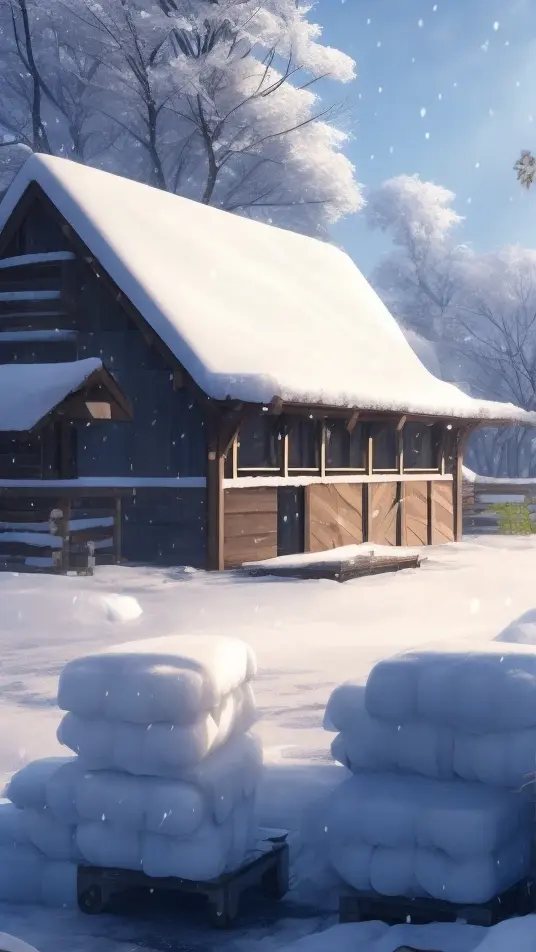
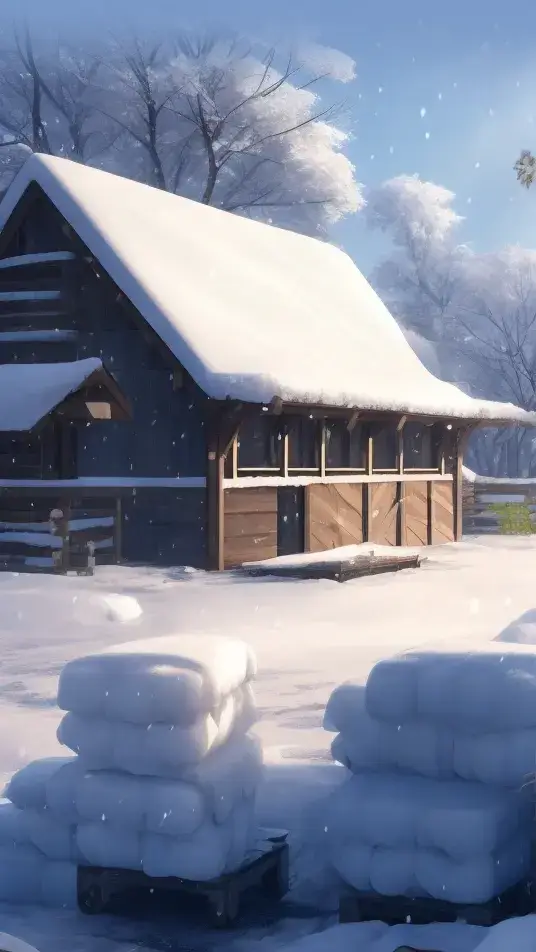
Modified Mobile Images to match themeClr codes ✨

Changed region(s): [[0.0, 0.0, 0.6866, 0.1218], [0.8955, 0.0, 1.0, 0.0914]]

diff --git a/src/components/React/Loader.tsx b/src/components/React/Loader.tsx
@@ -23,16 +23,44 @@ const Loader = () => {
         "119n": "#08194c",
         "122d": "#0442ae",
         "122n": "#041448",
-        "176d": "#2a3e52",
-        "176n": "#091423",
-        "296d": "#c9dcdc",
-        "296n": "#0d223b",
-        "200d": "#0c1b41",
-        "200n": "#172450",
-        "179d": "#7ea1c7",
-        "179n": "#1a2236",
         "143d": "#24a7f1",
         "143n": "#113749",
+        "176d": "#2a3e52",
+        "176n": "#091423",
+        "179d": "#7ea1c7",
+        "179n": "#1a2236",
+        "182d": "#28609d",
+        "182n": "#081830",
+        "185d": "#253e5d",
+        "185n": "#081e32",
+        "200d": "#0c1b41",
+        "200n": "#172450",
+        "230d": "#5e7a95",
+        "230n": "#0a1b33",
+        "277d": "#0d317b",
+        "277n": "#012771",
+        "284d": "#5e7a95",
+        "284n": "#0a1b33",
+        "296d": "#c9dcdc",
+        "296n": "#0d223b",
+        "305d": "#c5edd6",
+        "305n": "#0e2745",
+        "317d": "#28609d",
+        "317n": "#081830",
+        "335d": "#5e7a95",
+        "335n": "#0a1b33",
+        "350d": "#4975a8",
+        "350n": "#051643",
+        "359d": "#c5edd6",
+        "359n": "#0e2745",
+        "365d": "#253e5d",
+        "365n": "#081e32",
+        "377d": "#4975a8",
+        "377n": "#051643",
+        "389d": "#172939",
+        "389n": "#101c28",
+        "392d": "#2e4974",
+        "392n": "#09326b",
         "default": "#5488EE",
     }
 
@@ -45,16 +73,42 @@ const Loader = () => {
         "119n": "#0c0e3d",
         "122d": "#103785",
         "122n": "#020b44",
-        "176d": "#2a3e5e",
-        "176n": "#021933",
-        "296d": "#aaaeb4",
-        "296n": "#051728",
-        "200d": "#1c2b5f",
-        "200n": "#112552",
-        "179d": "#87a6c8",
-        "179n": "#11335c",
         "143d": "#3492e0",
         "143n": "#0d2e41",
+        "176d": "#2a3e5e",
+        "176n": "#021933",
+        "179d": "#87a6c8",
+        "179n": "#11335c",
+        "182d": "#174fa5",
+        "182n": "#081736",
+        "185d": "#293c55",
+        "185n": "#0c182f",
+        "200d": "#1c2b5f",
+        "200n": "#112552",
+        "230d": "#888ea0",
+        "230n": "#05192b",
+        "277d": "#14378d",
+        "277n": "#040b22",
+        "296d": "#aaaeb4",
+        "296n": "#051728",
+        "305d": "#cbdbdc",
+        "305n": "#031d32",
+        "317d": "#174fa5",
+        "317n": "#081736",
+        "335d": "#888ea0",
+        "335n": "#05192b",
+        "350d": "#7c9bc8",
+        "350n": "#000e29",
+        "359d": "#cbdbdc",
+        "359n": "#031d32",
+        "365d": "#293c55",
+        "365n": "#0c182f",
+        "377d": "#7c9bc8",
+        "377n": "#000e29",
+        "389d": "#030f1b",
+        "389n": "#0f2035",
+        "392d": "#112351",
+        "392n": "#040d2a",
         "default": "#5488EE",
     }
 

diff --git a/src/assets/desktop/index.ts b/src/assets/desktop/index.ts
@@ -79,8 +79,8 @@ export const DesktopImg: WeatherImages = {
     "200n": D_200n,
     "230d": D_230d,
     "230n": D_230n,
-    "227d": D_277d,
-    "227n": D_277n,
+    "277d": D_277d,
+    "277n": D_277n,
     "284d": D_230d,
     "284n": D_230n,
     "296d": D_296d,

diff --git a/src/assets/mobile/index.ts b/src/assets/mobile/index.ts
@@ -79,8 +79,8 @@ export const MobileImg: WeatherImages = {
     "200n": M_200n,
     "230d": M_230d,
     "230n": M_230n,
-    "227d": M_277d,
-    "227n": M_277n,
+    "277d": M_277d,
+    "277n": M_277n,
     "284d": M_230d,
     "284n": M_230n,
     "296d": M_296d,
